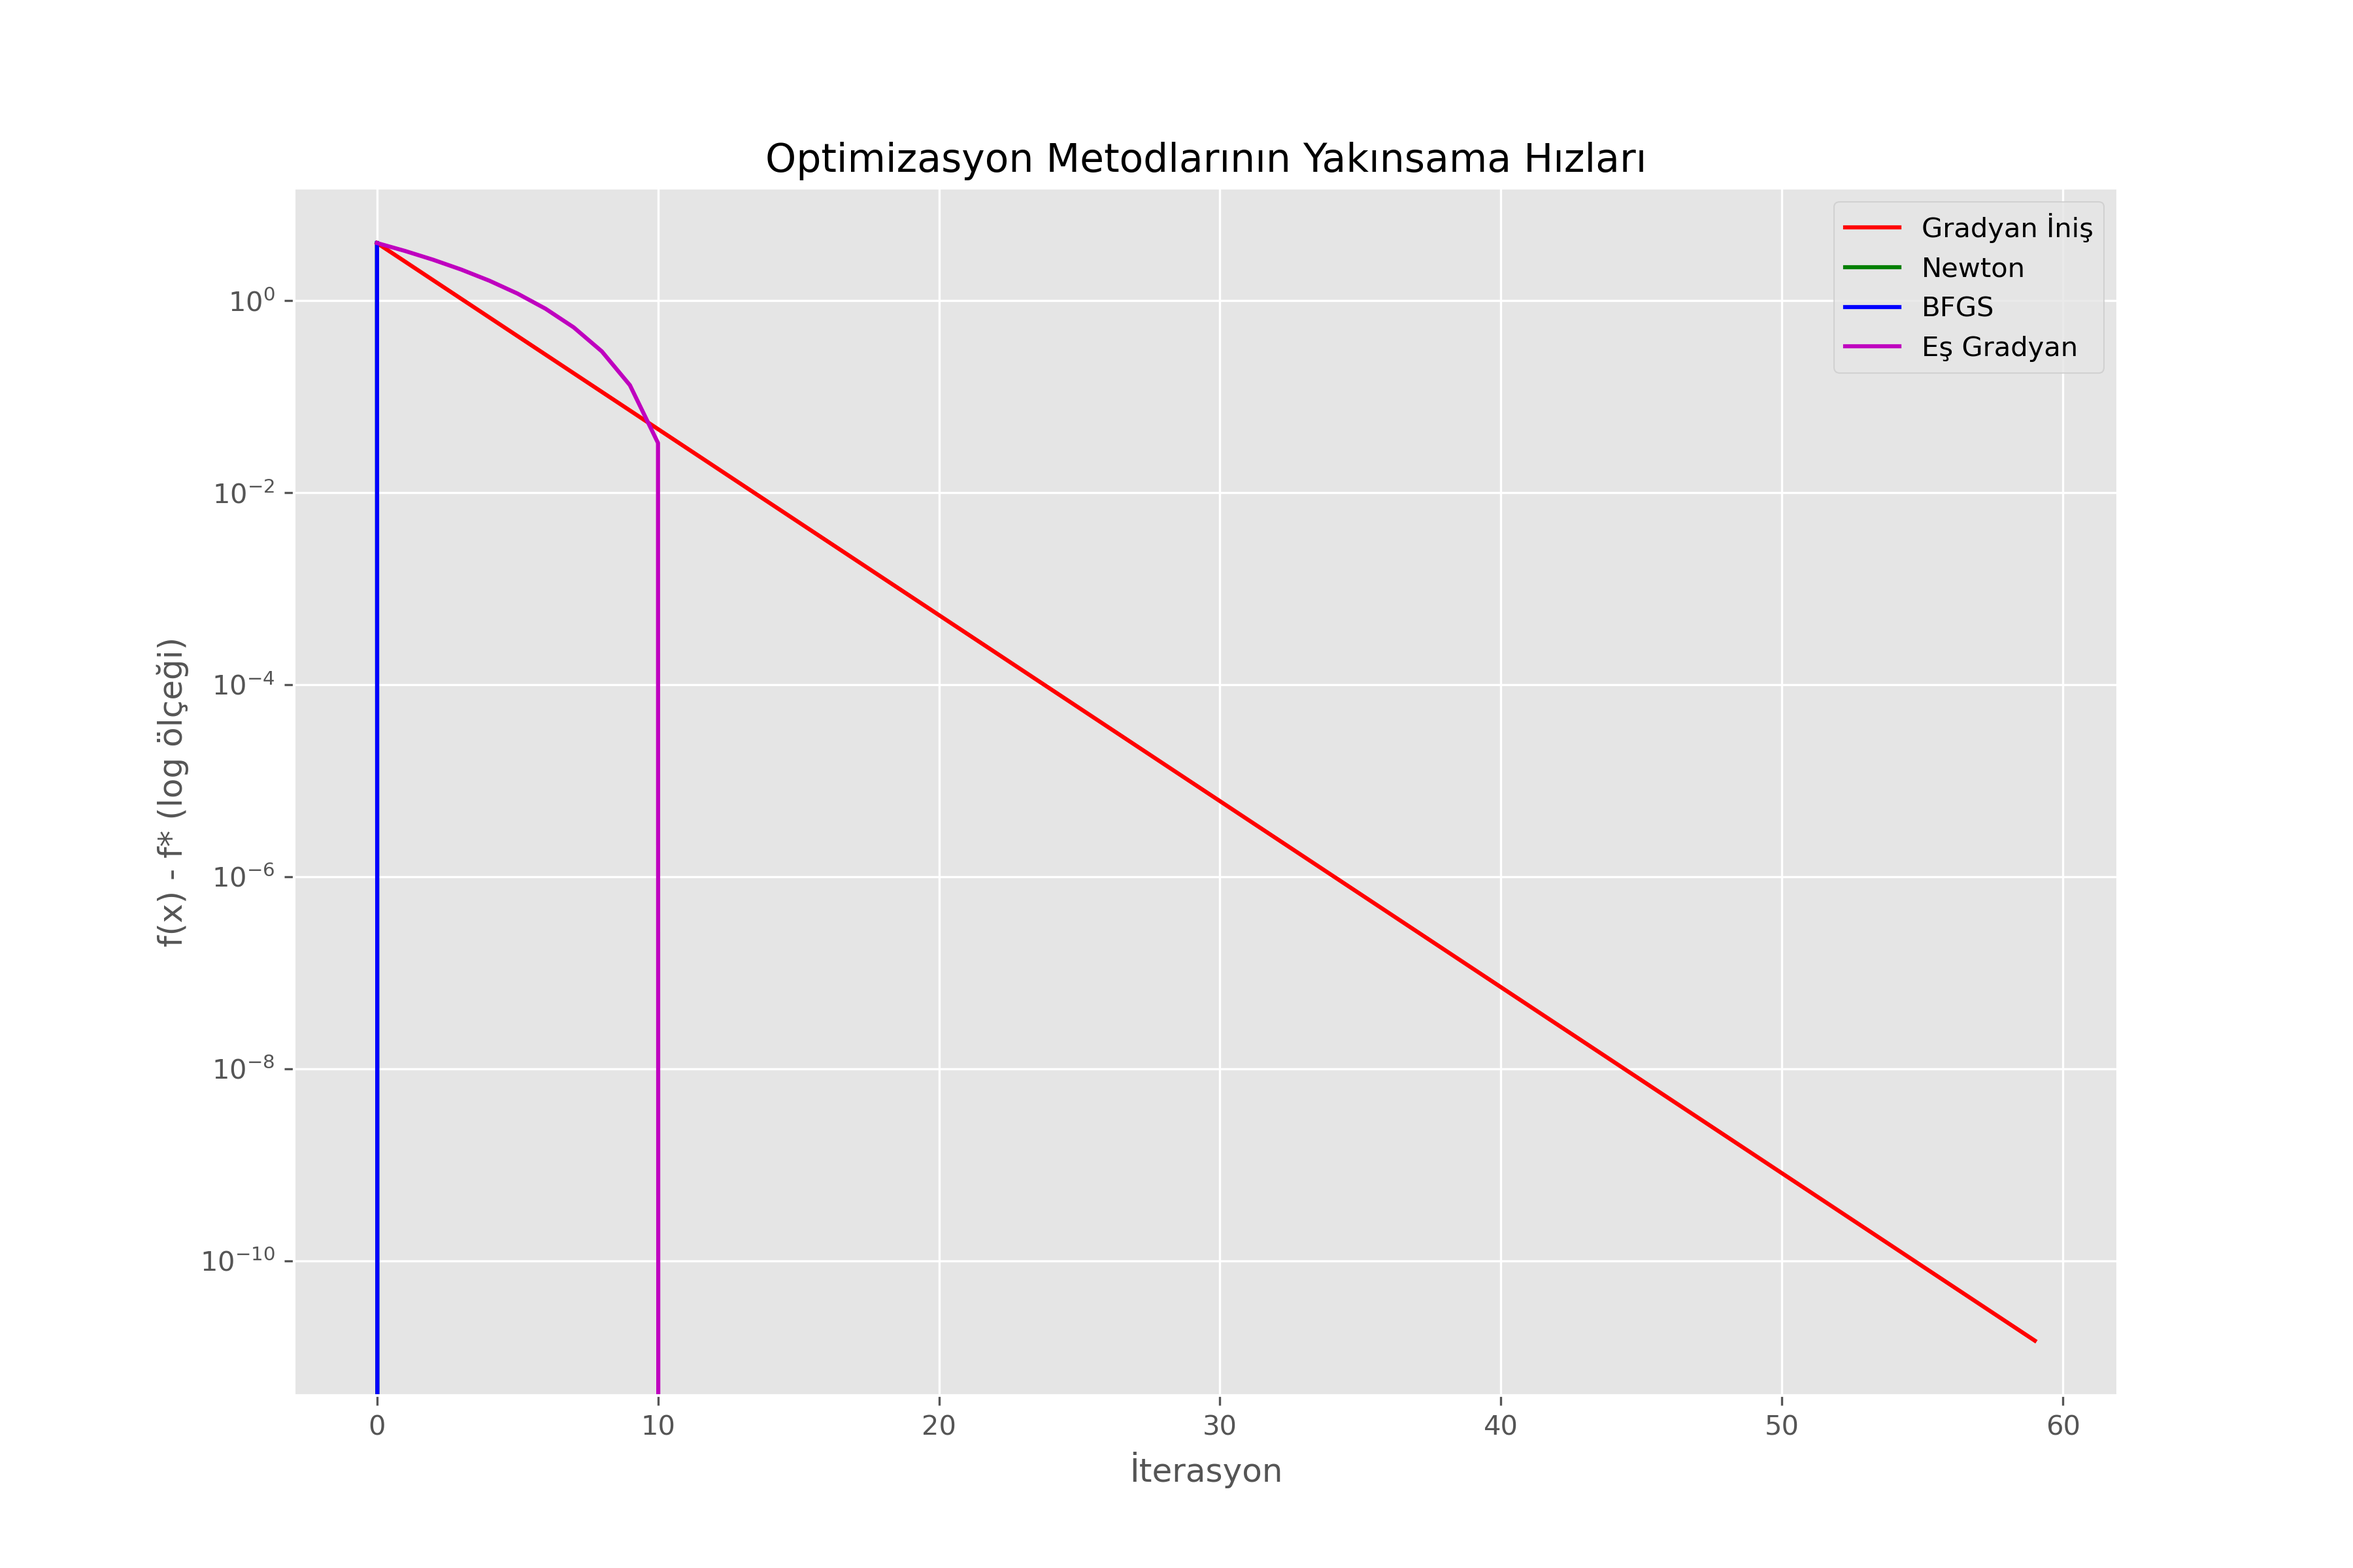
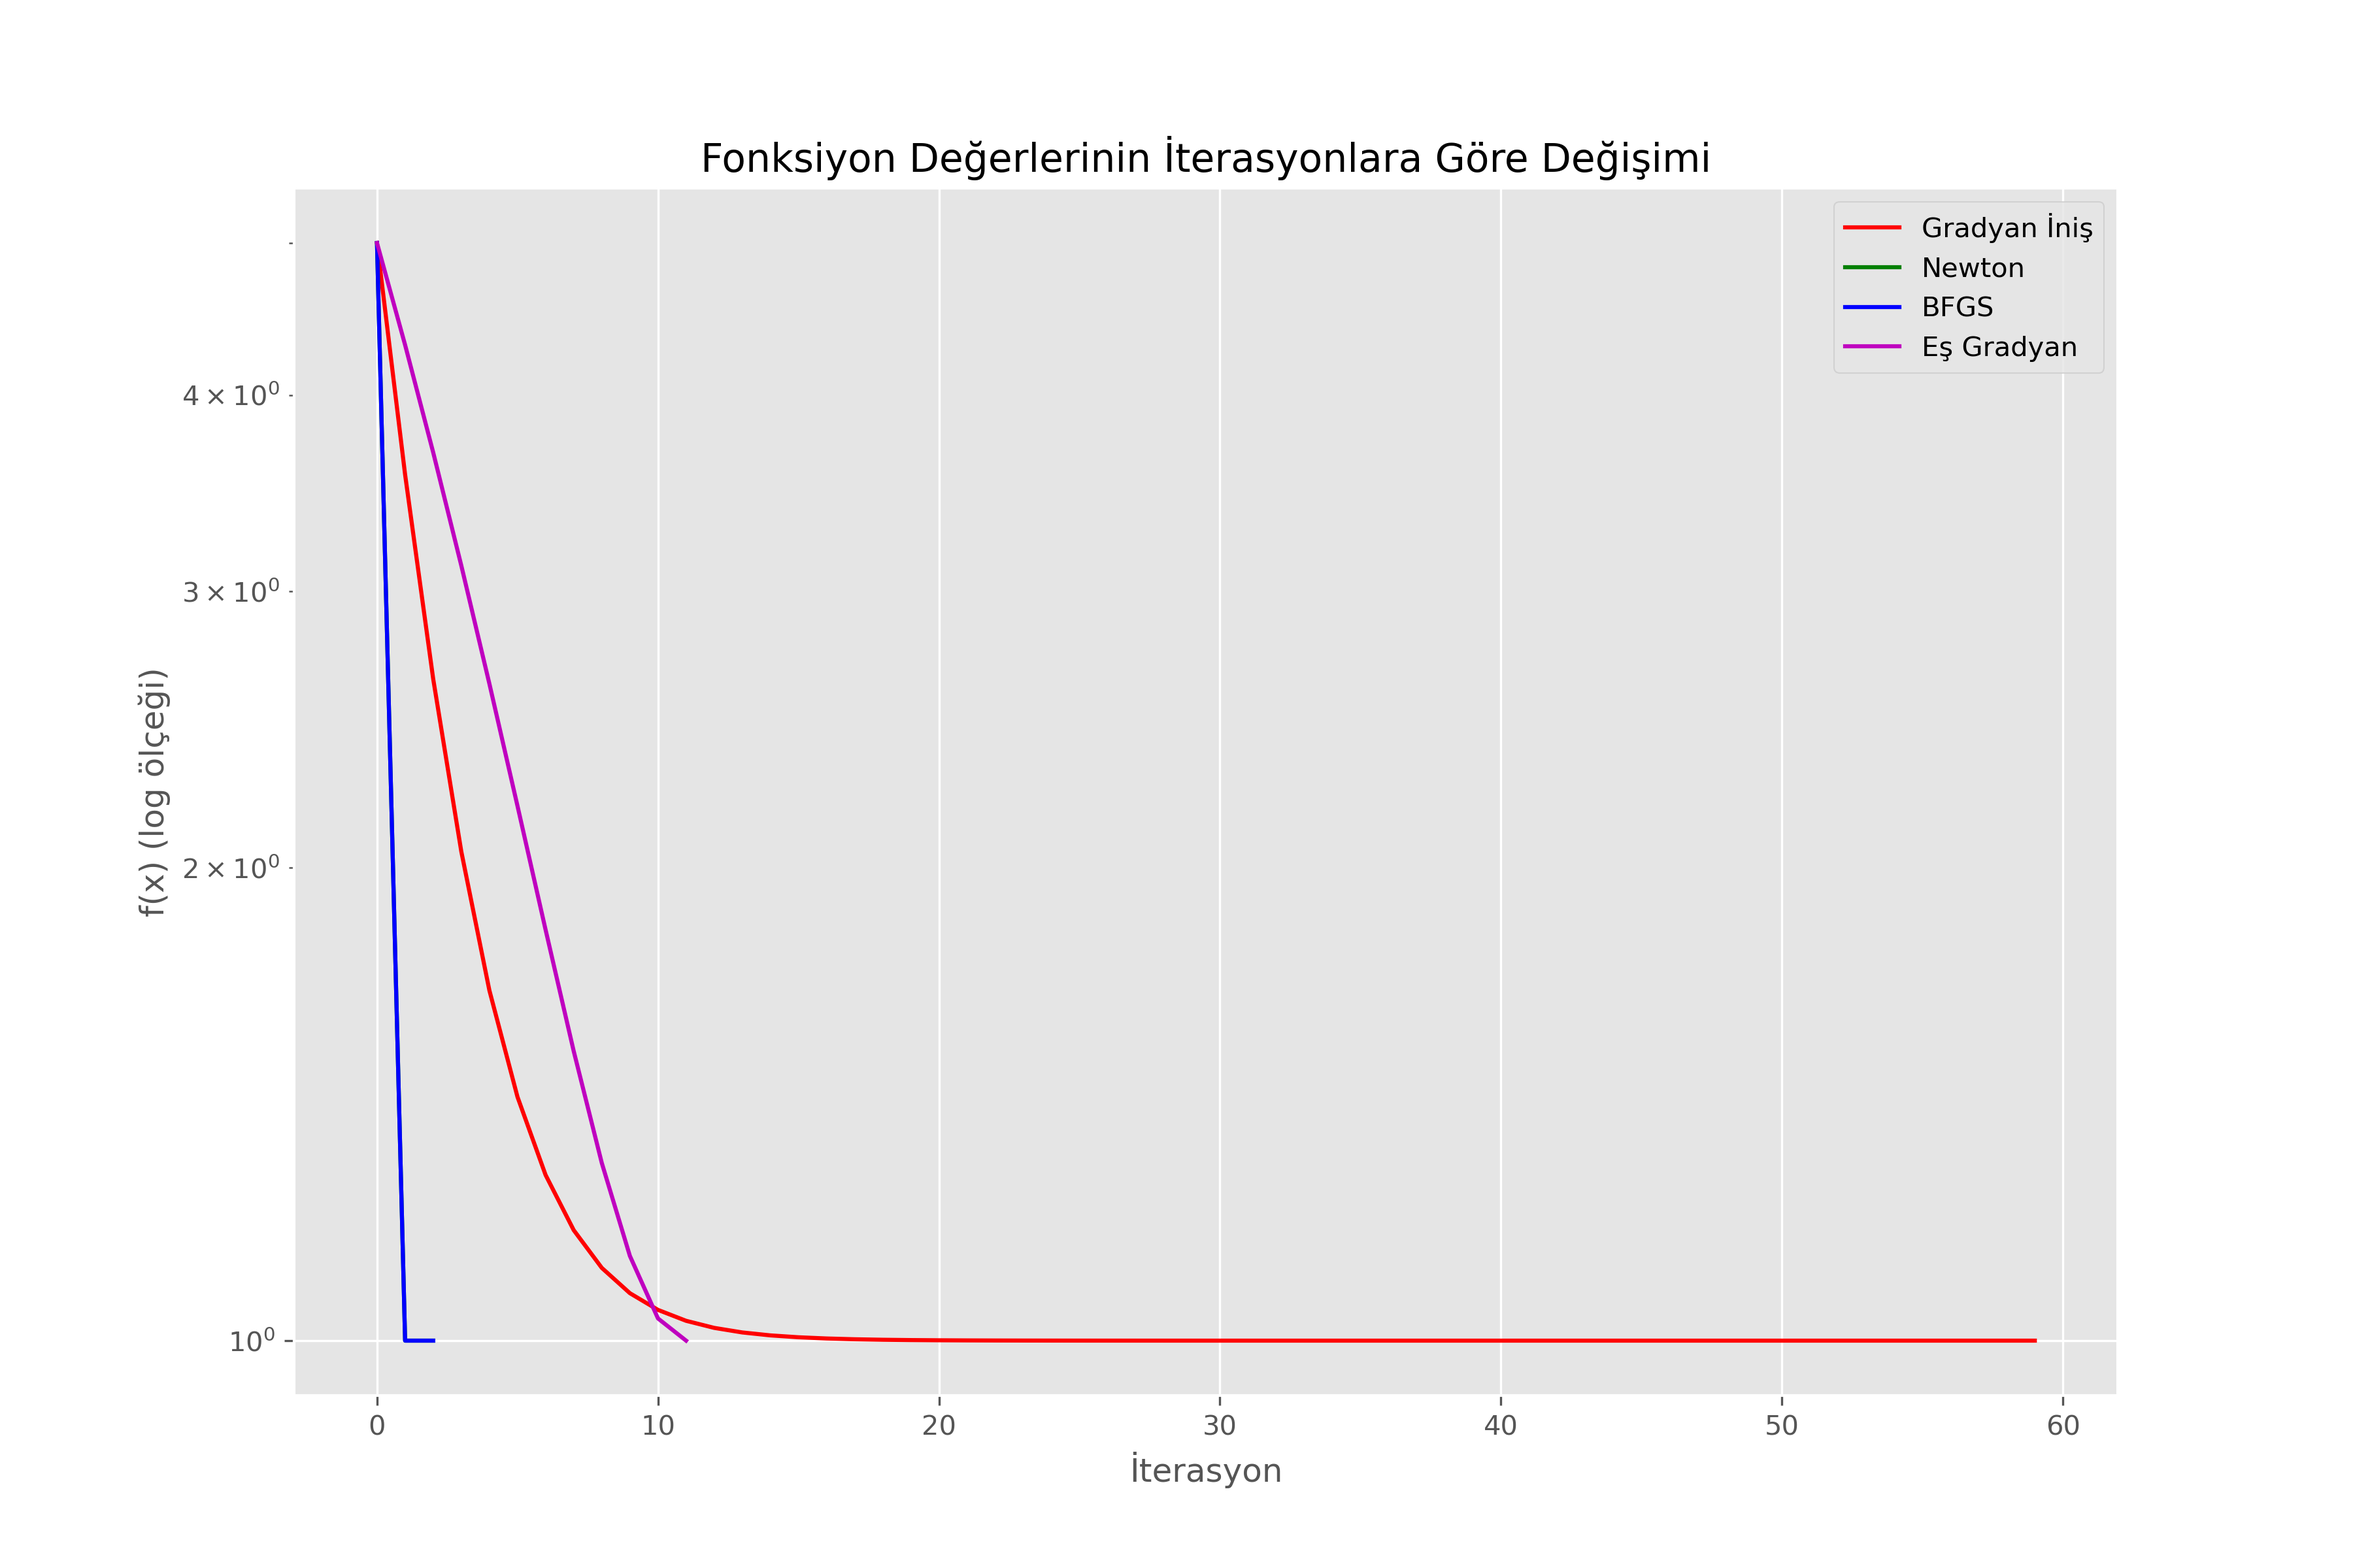
corrected

diff --git a/Code/Examples/Exmp2/optimization_methods.py b/Code/Examples/Exmp2/optimization_methods.py
@@ -258,12 +258,12 @@ def visualize_results(results):
     
     for (name, result), color in zip(results.items(), colors):
         f_history = result['f_history']
-        plt.semilogy(np.arange(len(f_history)), np.array(f_history) - 1.0, '-', color=color, 
+        plt.semilogy(np.arange(len(f_history)), np.array(f_history), '-', color=color, 
                     label=name)
     
     plt.xlabel('İterasyon')
-    plt.ylabel('f(x) - f* (log ölçeği)')
-    plt.title('Optimizasyon Metodlarının Yakınsama Hızları')
+    plt.ylabel('f(x) (log ölçeği)')
+    plt.title('Fonksiyon Değerlerinin İterasyonlara Göre Değişimi')
     plt.legend()
     plt.grid(True)
     
@@ -276,12 +276,12 @@ def visualize_results(results):
     
     for (name, result), color in zip(results.items(), colors):
         x_history = result['x_history']
-        plt.semilogy(np.arange(len(x_history)), np.abs(np.array(x_history) - 2.0), '-', color=color, 
-                    label=name)
+        plt.plot(np.arange(len(x_history)), np.array(x_history), '-', color=color, 
+                label=name)
     
     plt.xlabel('İterasyon')
-    plt.ylabel('|x - x*| (log ölçeği)')
-    plt.title('Optimizasyon Metodlarının x Değeri Yakınsama Hızları')
+    plt.ylabel('x değeri')
+    plt.title('x Değerlerinin İterasyonlara Göre Değişimi')
     plt.legend()
     plt.grid(True)
     
